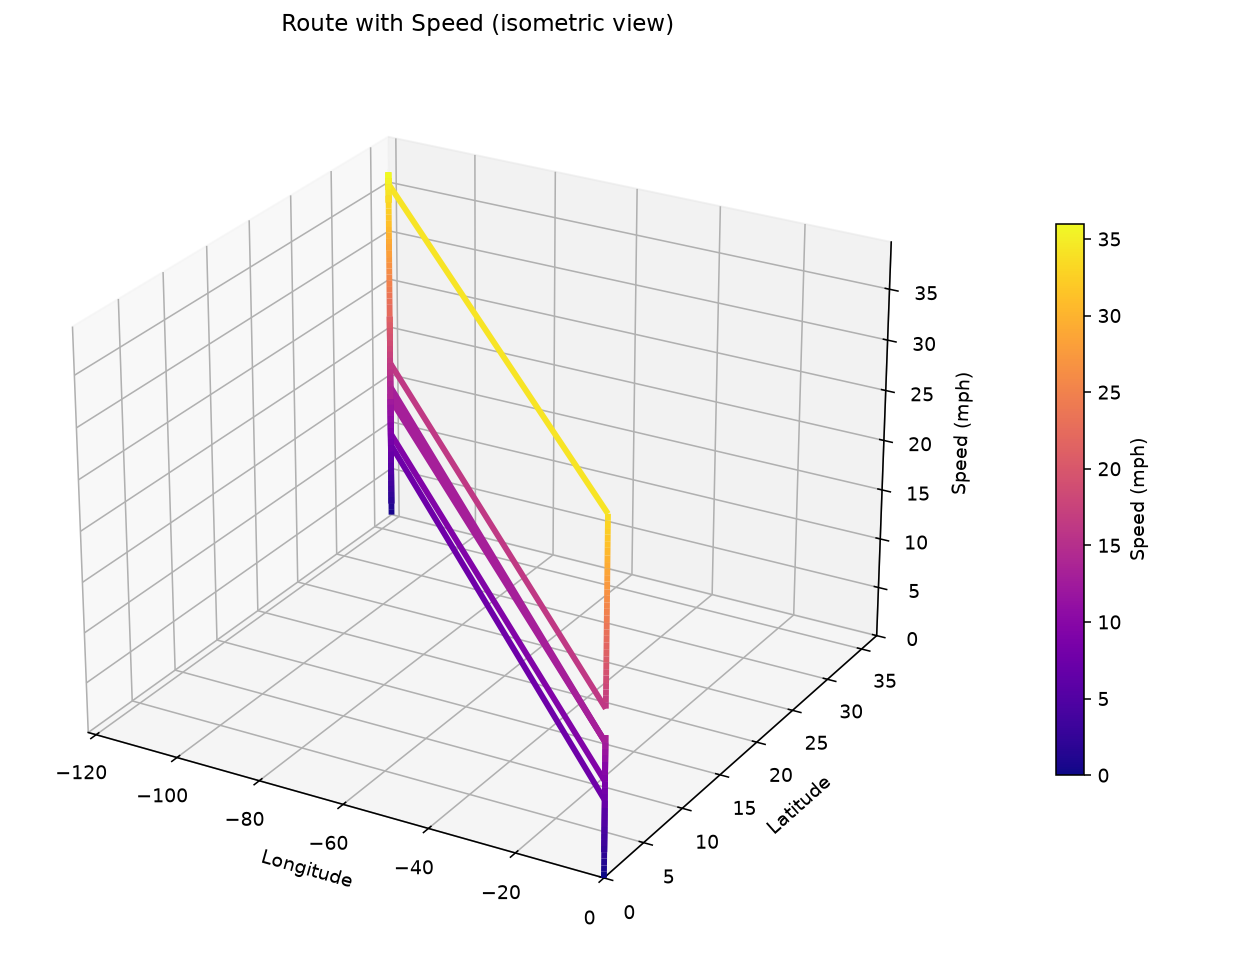
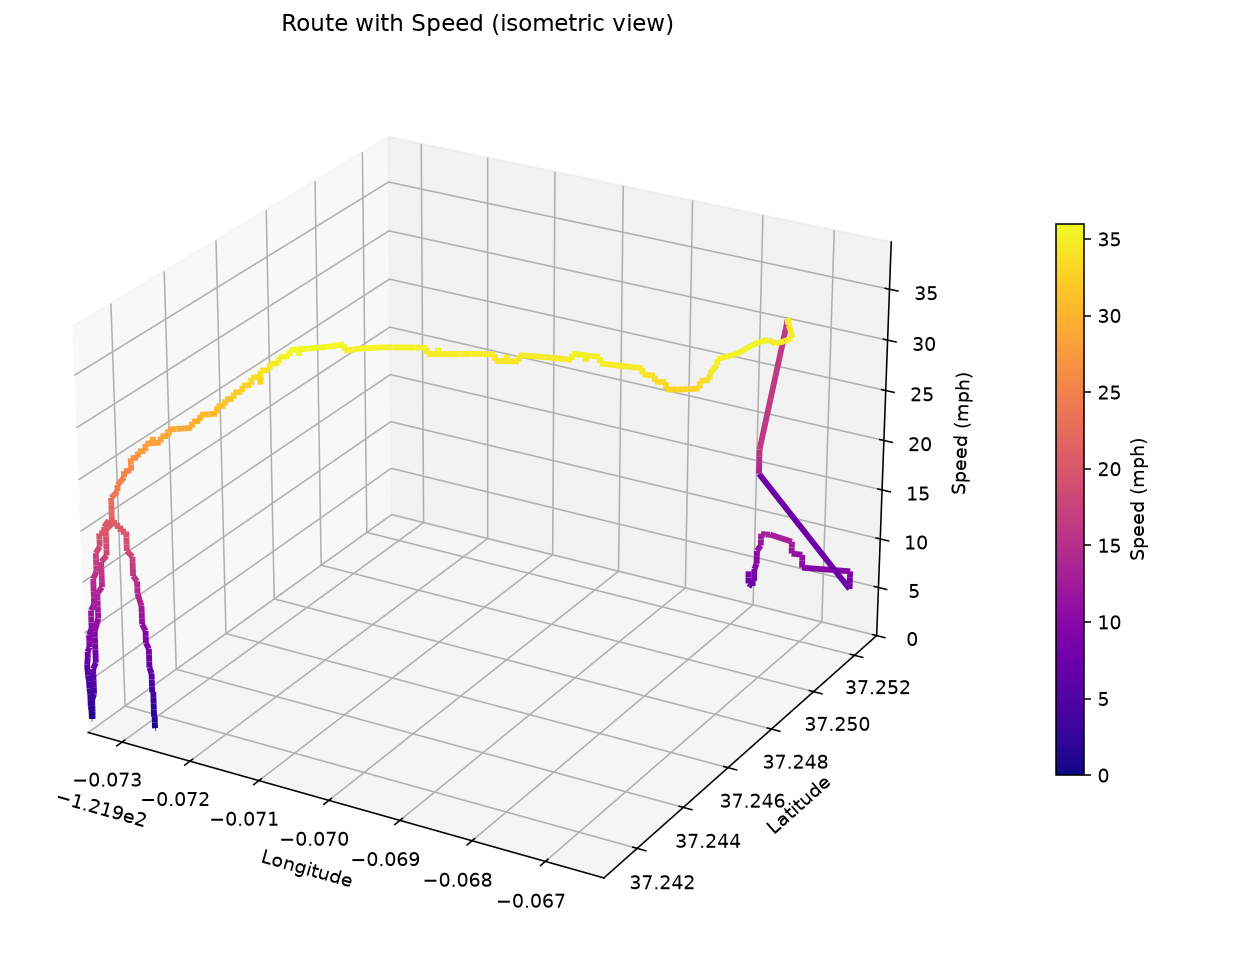
Fix GNSS null-island filtering; add two real drives

diff --git a/README.md b/README.md
@@ -8,6 +8,6 @@ processed into per-drive reports below.
 
 | Drive | Date | Duration | Distance | Max Speed | Hard Brakes |
 |---|---|---|---|---|---|
-| [20260902_131536](drives/20260902_131536/README.md) | 2026-09-02 | 3.6 min | 7942.0 mi | 41.0 mph | 4 |
-| [20260902_130608](drives/20260902_130608/README.md) | 2026-09-02 | 11.5 min | 55585.2 mi | 36.0 mph | 4 |
+| [20260902_131536](drives/20260902_131536/README.md) | 2026-09-02 | 3.6 min | 0.9 mi | 41.0 mph | 4 |
+| [20260902_130608](drives/20260902_130608/README.md) | 2026-09-02 | 11.5 min | 1.3 mi | 36.0 mph | 4 |
 | [20260902_074421](drives/20260902_074421/README.md) | 2026-09-02 | 0.9 min | 0.0 mi | 0.0 mph | 0 |

diff --git a/drives/20260902_130608/README.md b/drives/20260902_130608/README.md
@@ -2,7 +2,7 @@
 
 - **Start time:** 2026-09-02T13:06:10.951297
 - **Duration:** 692 s (11.5 min)
-- **Distance:** 55585.15 mi
+- **Distance:** 1.32 mi
 - **Max speed:** 36.0 mph
 - **Max RPM:** 2548.0
 - **Hard-braking events detected:** 4

diff --git a/drives/20260902_131536/README.md b/drives/20260902_131536/README.md
@@ -2,7 +2,7 @@
 
 - **Start time:** 2026-09-02T13:15:39.657518
 - **Duration:** 218 s (3.6 min)
-- **Distance:** 7942.01 mi
+- **Distance:** 0.88 mi
 - **Max speed:** 41.0 mph
 - **Max RPM:** 2140.0
 - **Hard-braking events detected:** 4
